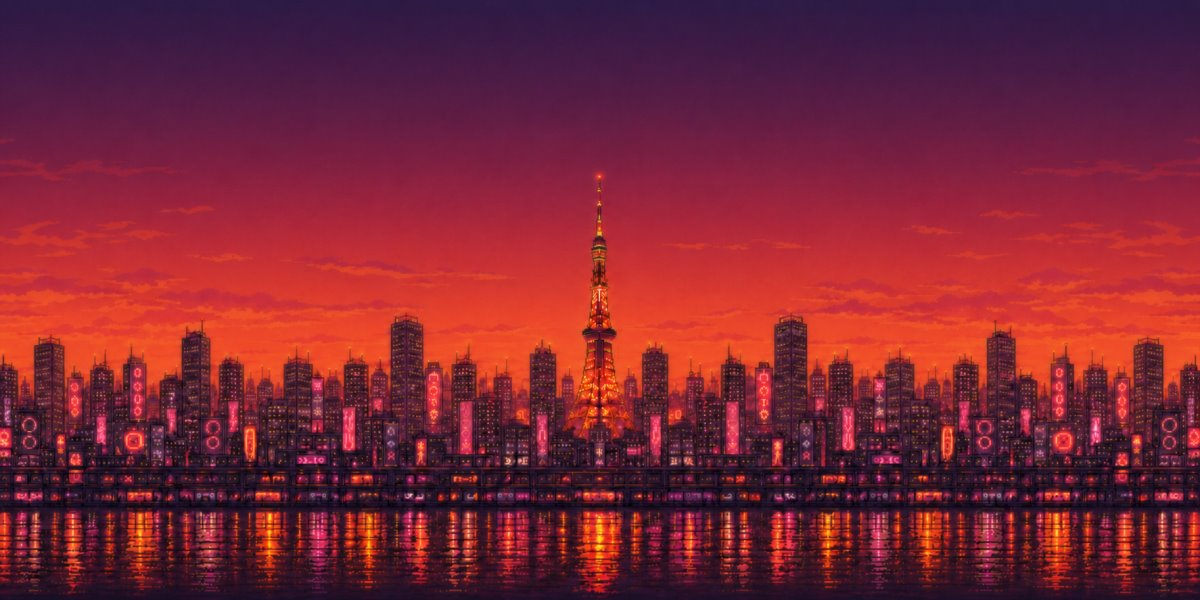
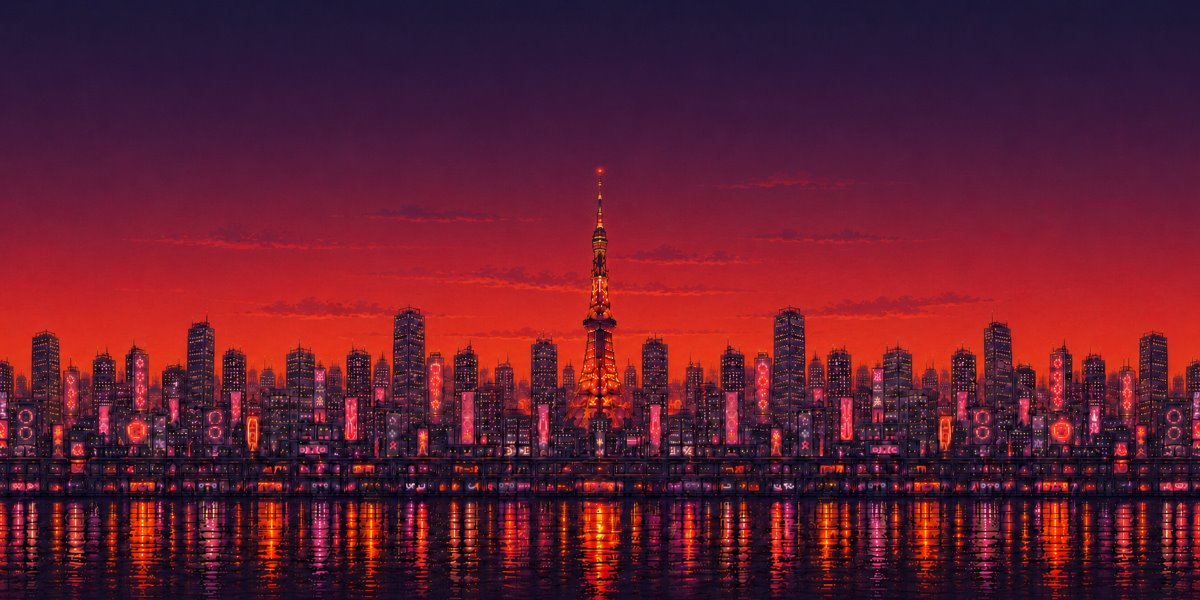
v0.5 — seamless background, 2px tile overlap

diff --git a/index.html b/index.html
@@ -68,6 +68,85 @@
     window.addEventListener('resize', resizeCanvas);
     resizeCanvas();
 
+    // --- Sound Effects (Web Audio API chiptune) ---
+    const AudioCtx = window.AudioContext || window.webkitAudioContext;
+    let audioCtx = null;
+
+    function initAudio() {
+      if (!audioCtx) audioCtx = new AudioCtx();
+      // Resume if suspended (browsers require user gesture)
+      if (audioCtx.state === 'suspended') audioCtx.resume();
+    }
+
+    // Helper: play a single oscillator tone
+    function playTone(freq, type, duration, slide, vol) {
+      if (!audioCtx) return;
+      const osc = audioCtx.createOscillator();
+      const gain = audioCtx.createGain();
+      osc.type = type;
+      osc.frequency.setValueAtTime(freq, audioCtx.currentTime);
+      if (slide) osc.frequency.linearRampToValueAtTime(slide, audioCtx.currentTime + duration);
+      gain.gain.setValueAtTime(vol || 0.15, audioCtx.currentTime);
+      gain.gain.exponentialRampToValueAtTime(0.001, audioCtx.currentTime + duration);
+      osc.connect(gain);
+      gain.connect(audioCtx.destination);
+      osc.start();
+      osc.stop(audioCtx.currentTime + duration);
+    }
+
+    // Helper: white noise burst
+    function playNoise(duration, vol) {
+      if (!audioCtx) return;
+      const bufferSize = audioCtx.sampleRate * duration;
+      const buffer = audioCtx.createBuffer(1, bufferSize, audioCtx.sampleRate);
+      const data = buffer.getChannelData(0);
+      for (let i = 0; i < bufferSize; i++) data[i] = Math.random() * 2 - 1;
+      const source = audioCtx.createBufferSource();
+      source.buffer = buffer;
+      const gain = audioCtx.createGain();
+      gain.gain.setValueAtTime(vol || 0.08, audioCtx.currentTime);
+      gain.gain.exponentialRampToValueAtTime(0.001, audioCtx.currentTime + duration);
+      source.connect(gain);
+      gain.connect(audioCtx.destination);
+      source.start();
+    }
+
+    // --- Sound FX (A2 — Pepe Meme-Aware Chiptune) ---
+
+    // 🐸 D1 — Boing: descending spring then bounce-back
+    function sfxRibbit() {
+      initAudio();
+      // Descending 600→100Hz (spring stretch)
+      playTone(600, 'sine', 0.06, 100, 0.06);
+      // Bounce back 100→400Hz (spring recoil)
+      setTimeout(() => playTone(100, 'sine', 0.06, 400, 0.04), 55);
+    }
+
+    // 📈 G2 — Triple Blip: three rising square beeps
+    function sfxDing() {
+      initAudio();
+      playTone(400, 'square', 0.05, null, 0.12);
+      setTimeout(() => playTone(600, 'square', 0.05, null, 0.12), 50);
+      setTimeout(() => playTone(800, 'square', 0.06, null, 0.14), 100);
+    }
+
+    // 💥 Sad trombone death: descending sawtooth
+    function sfxDeath() {
+      initAudio();
+      // Descending from 600Hz → 100Hz over 500ms
+      playTone(600, 'sawtooth', 0.5, 100, 0.12);
+      // Low rumble on top
+      setTimeout(() => playTone(80, 'square', 0.3, 40, 0.06), 50);
+    }
+
+    // 🎮 Start arpeggio: C-E-G chiptune style
+    function sfxStart() {
+      initAudio();
+      playTone(523, 'square', 0.1, null, 0.10);  // C5
+      setTimeout(() => playTone(659, 'square', 0.1, null, 0.10), 80);  // E5
+      setTimeout(() => playTone(784, 'square', 0.15, null, 0.10), 160); // G5
+    }
+
     // --- Constants ---
     const GRAVITY = 0.5;
     const JUMP_VELOCITY = -8;
@@ -90,6 +169,9 @@
       spawnInterval: SPAWN_INTERVAL_MIN,
       lastTime: 0,
       deathTimer: 0,
+      scorePopTimer: 0,
+      rainbowHue: 0,
+      ripples: [],
       bgOffset: 0,
       particles: [],
     };
@@ -114,6 +196,9 @@
       game.deathTimer = 0;
       game.bgOffset = 0;
       game.particles = [];
+      game.scorePopTimer = 0;
+      game.rainbowHue = 0;
+      game.ripples = [];
       game.streaks = [];
       player.tiltAngle = 0;
     }
@@ -145,10 +230,12 @@
     // --- Input ---
     function handleJump() {
       if (game.state === State.MENU) {
+        sfxStart();
         game.state = State.PLAYING;
         resetGame();
         player.velocityY = JUMP_VELOCITY;
       } else if (game.state === State.PLAYING) {
+        sfxRibbit();
         player.velocityY = JUMP_VELOCITY;
       } else if (game.state === State.GAME_OVER) {
         game.state = State.MENU;
@@ -182,7 +269,7 @@
     }
 
     function spawnObstacle() {
-      const MIN_BAR_HEIGHT = Math.round(LOGICAL_HEIGHT * 0.05); // 30px min on each bar
+      const MIN_BAR_HEIGHT = Math.round(LOGICAL_HEIGHT * 0.13); // 80px min — keeps HUD area clear
       const minGapY = MIN_BAR_HEIGHT + GAP_SIZE / 2;
       const maxGapY = LOGICAL_HEIGHT - MIN_BAR_HEIGHT - GAP_SIZE / 2;
       const gapY = minGapY + Math.random() * (maxGapY - minGapY);
@@ -208,6 +295,7 @@
         // Ground check — clamp y before game-over to prevent clipping
         if (player.y + player.height > LOGICAL_HEIGHT) {
           player.y = LOGICAL_HEIGHT - player.height;
+          sfxDeath();
           game.state = State.GAME_OVER;
         }
 
@@ -232,6 +320,9 @@
           if (!obs.scored && obs.x + obs.width < player.x) {
             obs.scored = true;
             game.score++;
+            game.scorePopTimer = 500;
+            game.rainbowHue = Math.random() * 360;
+            sfxDing();
           }
 
           // Collision detection
@@ -239,6 +330,7 @@
           const bottomBar = { x: obs.x, y: obs.gapY + obs.gapSize / 2, width: obs.width, height: LOGICAL_HEIGHT - (obs.gapY + obs.gapSize / 2) };
 
           if (checkCollision(player, topBar) || checkCollision(player, bottomBar)) {
+            sfxDeath();
             game.state = State.GAME_OVER;
           }
 
@@ -252,10 +344,10 @@
         // Spawn 2 particles per frame behind the rocket nozzle
         for (let i = 0; i < 2; i++) {
           game.particles.push({
-            x: player.x - 12 + Math.random() * 6,
-            y: player.y + 68 + Math.random() * 8,
+            x: player.x - 1 + Math.random() * 8,
+            y: player.y + 71 + Math.random() * 10,
             life: 1.0,
-            size: 4 + Math.random() * 1,
+            size: 5 + Math.random() * 3,
             vx: -(1.5 + Math.random() * 1.5),
             vy: -(0.5 + Math.random() * 0.5) + Math.random() * 1.0,
           });
@@ -292,6 +384,12 @@
       if (game.state === State.GAME_OVER) {
         game.deathTimer += dt * 16.667;
       }
+
+      // Decrement score pop timer
+      if (game.scorePopTimer > 0) {
+        game.scorePopTimer -= dt * 16.667;
+        if (game.scorePopTimer < 0) game.scorePopTimer = 0;
+      }
     }
 
     // --- Draw ---
@@ -313,7 +411,7 @@
         const bgH = LOGICAL_HEIGHT;
         const bgX = -(game.bgOffset % bgW);
         ctx.drawImage(bgImage, 0, 0, bgNaturalW, bgNaturalH, Math.round(bgX), 0, Math.round(bgW), bgH);
-        ctx.drawImage(bgImage, 0, 0, bgNaturalW, bgNaturalH, Math.round(bgX + bgW), 0, Math.round(bgW), bgH);
+        ctx.drawImage(bgImage, 0, 0, bgNaturalW, bgNaturalH, Math.round(bgX + bgW) - 1, 0, Math.round(bgW) + 2, bgH);
       }
 
       if (game.state === State.MENU) {
@@ -342,18 +440,23 @@
 
     function drawMenu() {
       if (game.score > bestScore) bestScore = game.score;
+      ctx.textAlign = 'center';
+      ctx.lineWidth = 3;
+      ctx.strokeStyle = '#000000';
+
       if (bestScore > 0) {
         ctx.font = 'bold 18px Courier New, monospace';
+        ctx.strokeText('ATH: 1 NMR ≈ $' + bestScore, LOGICAL_WIDTH / 2, LOGICAL_HEIGHT / 2 - 80);
         ctx.fillStyle = '#00d4aa';
-        ctx.textAlign = 'center';
         ctx.fillText('ATH: 1 NMR ≈ $' + bestScore, LOGICAL_WIDTH / 2, LOGICAL_HEIGHT / 2 - 80);
       }
-      ctx.fillStyle = '#ffffff';
       ctx.font = 'bold 48px Courier New, monospace';
-      ctx.textAlign = 'center';
-      ctx.fillText('NUMERBIRD', LOGICAL_WIDTH / 2, LOGICAL_HEIGHT / 2 - 30);
+      ctx.strokeText('NUMERBIRD', LOGICAL_WIDTH / 2, LOGICAL_HEIGHT / 2 - 30);
       ctx.fillStyle = '#ffffff';
+      ctx.fillText('NUMERBIRD', LOGICAL_WIDTH / 2, LOGICAL_HEIGHT / 2 - 30);
       ctx.font = '18px Courier New, monospace';
+      ctx.strokeText('Press SPACE or Tap to Start', LOGICAL_WIDTH / 2, LOGICAL_HEIGHT / 2 + 30);
+      ctx.fillStyle = '#ffffff';
       ctx.fillText('Press SPACE or Tap to Start', LOGICAL_WIDTH / 2, LOGICAL_HEIGHT / 2 + 30);
     }
 
@@ -404,11 +507,17 @@
         ctx.stroke();
       }
 
-      // --- Score ---
-      ctx.fillStyle = '#ffffff';
-      ctx.font = 'bold 32px Courier New, monospace';
-      ctx.textAlign = 'left';
-      ctx.fillText('1 NMR ≈ $' + game.score, 20, 50);
+      // --- Ripple rings (score effect) ---
+      for (const r of game.ripples) {
+        const progress = 1 - r.timer / r.duration;
+        ctx.beginPath();
+        ctx.arc(r.x, r.y, r.radius, 0, Math.PI * 2);
+        ctx.strokeStyle = `rgba(0, 212, 170, ${0.5 * (1 - progress)})`;
+        ctx.lineWidth = 2;
+        ctx.stroke();
+      }
+
+      // (Score drawn in HUD strip below)
 
       // --- Exhaust smoke particles (radial-gradient, behind player) ---
       for (const p of game.particles) {
@@ -480,6 +589,34 @@
         ctx.fillRect(-player.width / 2, -player.height / 2, player.width, player.height);
         ctx.restore();
       }
+
+      // --- Score with rainbow glow + black outline ---
+      const scoreText = '1 NMR ≈ $' + game.score;
+      ctx.font = 'bold 32px Courier New, monospace';
+      ctx.textAlign = 'left';
+      ctx.lineWidth = 3;
+      ctx.strokeStyle = '#000000';
+
+      // Rainbow glow on score pop
+      if (game.scorePopTimer > 0) {
+        const progress = game.scorePopTimer / 500;
+        const blur = Math.round(40 * progress);
+        const hue = game.rainbowHue;
+        ctx.save();
+        ctx.shadowColor = `hsl(${hue}, 100%, 60%)`;
+        ctx.shadowBlur = blur;
+        ctx.fillStyle = `hsl(${hue}, 100%, 60%)`;
+        ctx.fillText(scoreText, 20, 50);
+        ctx.shadowBlur = 0;
+        ctx.strokeText(scoreText, 20, 50);
+        ctx.fillStyle = '#ffffff';
+        ctx.fillText(scoreText, 20, 50);
+        ctx.restore();
+      } else {
+        ctx.strokeText(scoreText, 20, 50);
+        ctx.fillStyle = '#ffffff';
+        ctx.fillText(scoreText, 20, 50);
+      }
     }
 
     function drawGameOver() {
@@ -501,19 +638,24 @@
       ctx.strokeRect(panelX, panelY, panelW, panelH);
 
       // Game Over text
-      ctx.fillStyle = '#ff6b6b';
       ctx.font = 'bold 36px Courier New, monospace';
       ctx.textAlign = 'center';
+      ctx.lineWidth = 3;
+      ctx.strokeStyle = '#000000';
+      ctx.strokeText('GAME OVER', LOGICAL_WIDTH / 2, panelY + 60);
+      ctx.fillStyle = '#ff6b6b';
       ctx.fillText('GAME OVER', LOGICAL_WIDTH / 2, panelY + 60);
 
       // Score
-      ctx.fillStyle = '#ffffff';
       ctx.font = 'bold 24px Courier New, monospace';
+      ctx.strokeText('1 NMR ≈ $' + game.score, LOGICAL_WIDTH / 2, panelY + 110);
+      ctx.fillStyle = '#ffffff';
       ctx.fillText('1 NMR ≈ $' + game.score, LOGICAL_WIDTH / 2, panelY + 110);
 
       // Restart prompt
-      ctx.fillStyle = 'rgba(255, 255, 255, 0.6)';
       ctx.font = '16px Courier New, monospace';
+      ctx.strokeText('Press SPACE or Tap to Restart', LOGICAL_WIDTH / 2, panelY + 160);
+      ctx.fillStyle = 'rgba(255, 255, 255, 0.6)';
       ctx.fillText('Press SPACE or Tap to Restart', LOGICAL_WIDTH / 2, panelY + 160);
     }
 